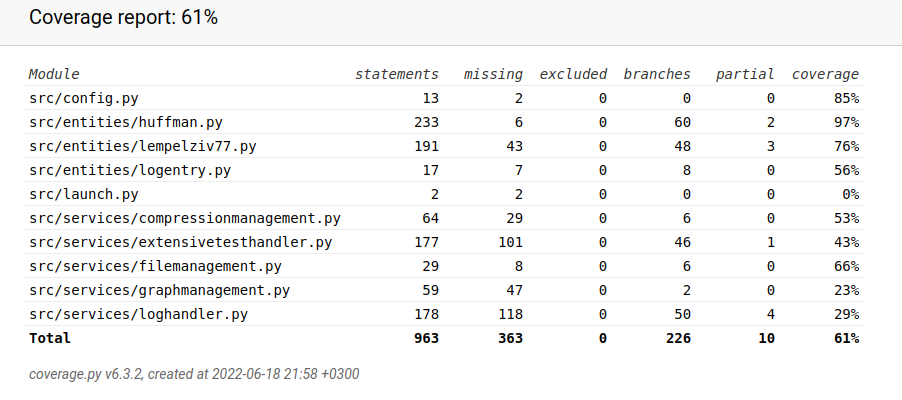
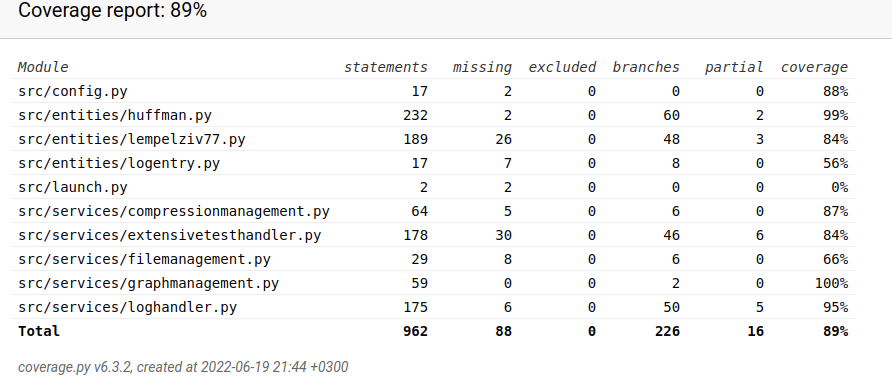
Update documentation

diff --git a/documentation/weekly-report-6.md b/documentation/weekly-report-6.md
@@ -57,7 +57,9 @@ I have a few questions for this week as well:
 
 
 ## Pylint and Pytest - status update
-This week I have written a lot of new functionalities in the service classes and these are still missing tests. Because of this, the branch coverage has now decreased to 61 percent. There are more open Pylint-issues this week than last, but the score is fairly high, 9.87/10. 
+This week I have written a lot of new functionalities in the service classes and these are still missing tests. Because of this, the branch coverage has now decreased to 61 percent. **UPDATE 19.6.2022:** As the issue with testing methods including file manipulation was resolved more extensive tests were added. Branch coverage is now 89%.
+
+There are more open Pylint-issues this week than last, but the score is fairly high, 9.87/10. 
 
 ![Coverage-report](images/coverage-report-week-6.png)
 
